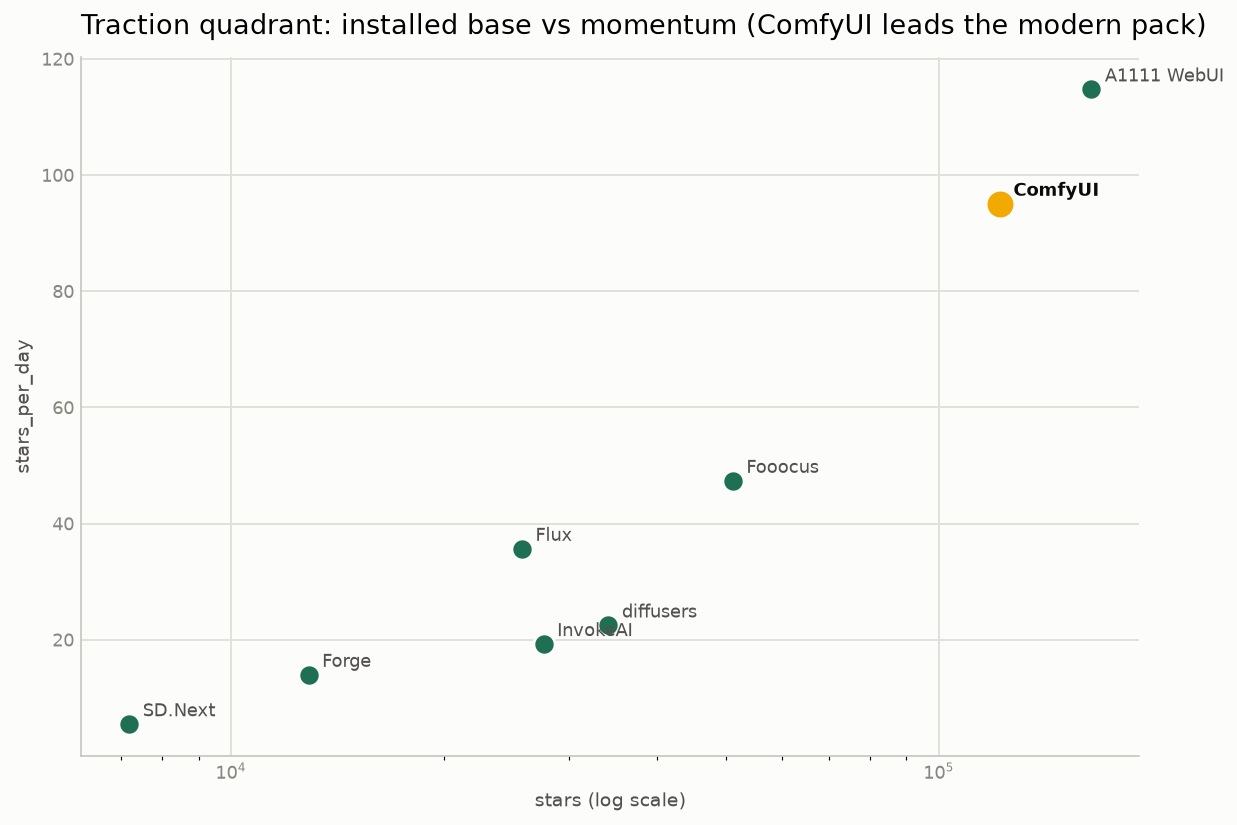
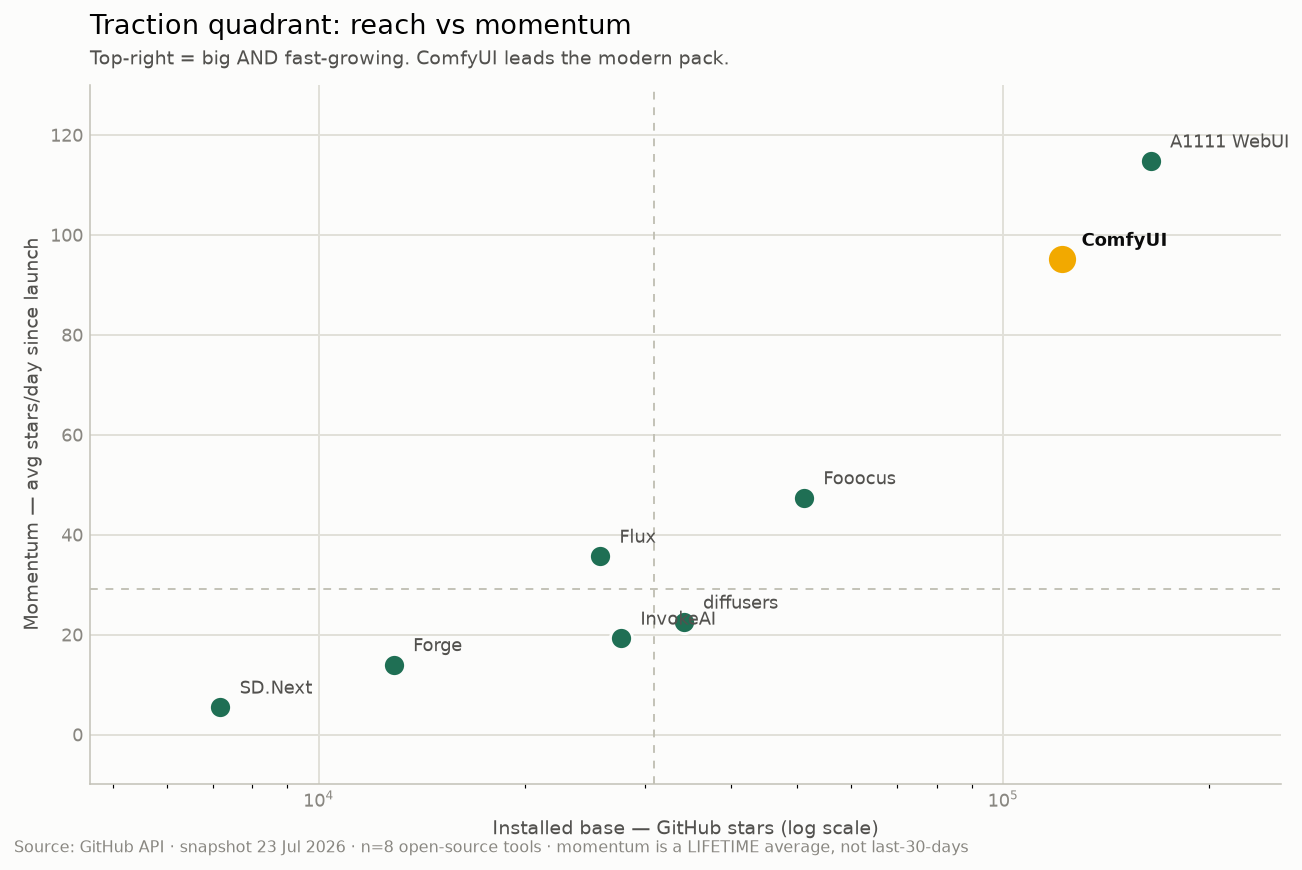
Elevate charts to McCandless's four lenses of information design
Make the charts professional-grade against Interestingness x Function x
Form x Integrity:

- Function: human titles/axis labels, k/M tick formatting, subtitles that
  state the takeaway, optional quadrant guide lines (vline/hline)
- Integrity: every chart takes a source= footer; the traction metric is
  labeled a lifetime average (not last-30-days) so it never overclaims
- Form: unchanged green/gold accent system, now with cleaner number
  formatting and title+subtitle structure

Add docs/DESIGN_RATIONALE.md mapping each choice to the four lenses and the
failure modes it avoids. Regenerate the two demo charts with honest labels,
subtitles, and source attribution.

diff --git a/src/simple_eda/plots.py b/src/simple_eda/plots.py
@@ -4,23 +4,27 @@ Each function takes a DataFrame, applies one deliberate house style, and
 *returns* a matplotlib ``Figure`` (it never calls ``show`` and never modifies
 the DataFrame).
 
-The house style has one idea: **spend your one bright color on the number that
-matters.** Marks are a muted green; the single key value (a median, a leader) is
-gold, so the eye lands there first. Everything else recedes — off-white surface,
-hairline grid, muted labels, no top/right spines. Signed values (correlations)
-use a blue-to-red diverging ramp with a neutral-gray midpoint.
+Design goals follow McCandless's four lenses for good information design:
+  - Form         one recessive base color, one gold accent on the key value;
+                 hairline chrome, direct labels, "k" number formatting.
+  - Function     human-readable titles/axes, subtitles that state the takeaway.
+  - Integrity    every chart carries an optional source/date footer, so the
+                 numbers are attributable.
+  - Interestingness  the caller supplies the question (title) and the "so what"
+                 (subtitle); the accent color answers it at a glance.
 """
 
 import numpy as np
 import matplotlib.pyplot as plt
 import matplotlib.colors as mcolors
+from matplotlib.ticker import FuncFormatter
 import pandas as pd
 
 # --- house palette ------------------------------------------------------------
 SURFACE = "#fcfcfb"    # soft off-white, easier on the eye than stark white
 INK = "#0b0b0b"        # primary text
 SECONDARY = "#52514e"  # axis titles / value labels
-MUTED = "#898781"      # tick labels
+MUTED = "#898781"      # tick labels / source footer
 GRID = "#e1e0d9"       # hairline gridlines
 BASELINE = "#c3c2b7"   # the one axis line we keep
 GREEN = "#1f6f54"      # recessive base mark (school green)
@@ -30,6 +34,16 @@ GOLD = "#f2a900"       # the one accent, reserved for the key value (school gold
 DIVERGING = mcolors.LinearSegmentedColormap.from_list(
     "eda_diverging", ["#256abf", "#f0efec", "#d03b3b"]
 )
+
+
+def _thousands(x, _pos=None):
+    """Axis tick formatter: 25000 -> '25k', 1500000 -> '2M'."""
+    ax = abs(x)
+    if ax >= 1_000_000:
+        return f"{x / 1_000_000:.0f}M"
+    if ax >= 1_000:
+        return f"{x / 1_000:.0f}k"
+    return f"{x:.0f}"
 
 
 def _style(ax) -> None:
@@ -46,7 +60,23 @@ def _style(ax) -> None:
     ax.yaxis.label.set_color(SECONDARY)
 
 
-def missing_plot(df: pd.DataFrame):
+def _titles(ax, title, subtitle):
+    """Left-aligned title with an optional subtitle (the takeaway) beneath it."""
+    ax.set_title(title, loc="left", fontsize=14, pad=26 if subtitle else 12)
+    if subtitle:
+        ax.annotate(subtitle, xy=(0, 1), xytext=(0, 8), xycoords="axes fraction",
+                    textcoords="offset points", ha="left", va="bottom",
+                    color=SECONDARY, fontsize=10)
+
+
+def _footer(fig, source):
+    """Muted source/date line at the bottom-left — attribution = integrity."""
+    if source:
+        fig.text(0.01, 0.005, source, ha="left", va="bottom",
+                 color=MUTED, fontsize=8)
+
+
+def missing_plot(df: pd.DataFrame, source=None):
     """Horizontal bar of missing-value counts per column, highest on top."""
     counts = df.isna().sum().sort_values()
     counts = counts[counts > 0]
@@ -67,11 +97,13 @@ def missing_plot(df: pd.DataFrame):
                 color=SECONDARY, fontsize=9)
     ax.set_title("Missing values per column", loc="left", fontsize=13, pad=12)
     ax.set_xlabel("count")
+    _footer(fig, source)
     fig.tight_layout()
     return fig
 
 
-def histogram(df: pd.DataFrame, column: str, bins: int = 24, highlight="median"):
+def histogram(df: pd.DataFrame, column: str, bins: int = 24, highlight="median",
+              title=None, subtitle=None, xlabel=None, source=None):
     """Distribution of one numeric column, with the median's bin marked in gold.
 
     ``highlight`` may be ``"median"``, ``"mean"``, a number, or ``None``.
@@ -84,11 +116,11 @@ def histogram(df: pd.DataFrame, column: str, bins: int = 24, highlight="median")
                                      edgecolor=SURFACE, linewidth=1.2)
     ax.yaxis.grid(True, color=GRID, linewidth=1)
     ax.set_axisbelow(True)
+    ax.xaxis.set_major_formatter(FuncFormatter(_thousands))
 
     marker = {"median": series.median(), "mean": series.mean()}.get(highlight,
                                                                      highlight)
     if marker is not None:
-        # recolor only the single bar whose bin contains the marker value
         idx = int(np.clip(np.digitize(marker, edges) - 1, 0, len(patches) - 1))
         patches[idx].set_facecolor(GOLD)
         label = (highlight if isinstance(highlight, str) else "value").upper()
@@ -96,15 +128,16 @@ def histogram(df: pd.DataFrame, column: str, bins: int = 24, highlight="median")
                 counts[idx] / 2, f"{label} {marker:,.0f}", rotation=90,
                 ha="center", va="center", color=INK, fontsize=10, weight="bold")
 
-    ax.set_title(f"Distribution of {column}", loc="left", fontsize=14, pad=12)
-    ax.set_xlabel(column)
+    _titles(ax, title or f"Distribution of {column}", subtitle)
+    ax.set_xlabel(xlabel or column)
     ax.set_ylabel("frequency")
+    _footer(fig, source)
     fig.tight_layout()
     return fig
 
 
 def ranked_bar(df: pd.DataFrame, label_col: str, value_col: str, top=None,
-               title=None):
+               title=None, subtitle=None, xlabel=None, source=None):
     """Horizontal ranked bar; the #1 value is accented in gold, rest recessive."""
     data = df[[label_col, value_col]].dropna().sort_values(value_col)
     if top:
@@ -114,61 +147,75 @@ def ranked_bar(df: pd.DataFrame, label_col: str, value_col: str, top=None,
     colors = [GREEN] * len(values)
     colors[-1] = GOLD  # last (largest, top of chart) is the leader
 
-    fig, ax = plt.subplots(figsize=(9, max(2.5, 0.5 * len(values) + 1)))
+    fig, ax = plt.subplots(figsize=(9, max(2.5, 0.5 * len(values) + 1.2)))
     _style(ax)
     ax.barh(labels, values, color=colors, height=0.68)
     ax.xaxis.grid(True, color=GRID, linewidth=1)
     ax.set_axisbelow(True)
+    ax.xaxis.set_major_formatter(FuncFormatter(_thousands))
     pad = max(values) * 0.01
     for y, v in enumerate(values):
         ax.text(v + pad, y, f"{v:,.0f}", va="center", ha="left",
                 color=SECONDARY, fontsize=9)
-    ax.margins(x=0.12)
-    ax.set_title(title or f"{value_col} by {label_col}", loc="left",
-                 fontsize=14, pad=12)
-    ax.set_xlabel(value_col)
+    ax.margins(x=0.13)
+    _titles(ax, title or f"{value_col} by {label_col}", subtitle)
+    ax.set_xlabel(xlabel or value_col)
+    _footer(fig, source)
     fig.tight_layout()
     return fig
 
 
-def scatter(df: pd.DataFrame, x: str, y: str, label_col=None,
-            highlight=None, logx=False, title=None):
+def scatter(df: pd.DataFrame, x: str, y: str, label_col=None, highlight=None,
+            logx=False, title=None, subtitle=None, xlabel=None, ylabel=None,
+            vline=None, hline=None, source=None):
     """Scatter of two numeric columns; ``highlight`` (a label) is drawn in gold.
 
-    Handy as a "traction quadrant": installed base on x, growth on y.
+    Handy as a "traction quadrant": installed base on x, growth on y. Pass
+    ``vline`` / ``hline`` (e.g. the medians) to split the plane into quadrants.
     """
     data = df.dropna(subset=[x, y])
-    fig, ax = plt.subplots(figsize=(9, 6))
+    fig, ax = plt.subplots(figsize=(9.5, 6.2))
     _style(ax)
+
+    # quadrant reference lines (drawn first, so they sit behind the marks)
+    if vline is not None:
+        ax.axvline(vline, color=BASELINE, linewidth=1, linestyle=(0, (4, 4)))
+    if hline is not None:
+        ax.axhline(hline, color=BASELINE, linewidth=1, linestyle=(0, (4, 4)))
 
     hi_mask = (data[label_col] == highlight) if (label_col and highlight) \
         else pd.Series(False, index=data.index)
-    ax.scatter(data.loc[~hi_mask, x], data.loc[~hi_mask, y], s=120,
+    ax.scatter(data.loc[~hi_mask, x], data.loc[~hi_mask, y], s=130,
                color=GREEN, edgecolor=SURFACE, linewidth=1.5, zorder=3)
     if hi_mask.any():
-        ax.scatter(data.loc[hi_mask, x], data.loc[hi_mask, y], s=220,
+        ax.scatter(data.loc[hi_mask, x], data.loc[hi_mask, y], s=240,
                    color=GOLD, edgecolor=SURFACE, linewidth=1.5, zorder=4)
 
     if label_col:
         for _, r in data.iterrows():
+            is_hi = r[label_col] == highlight
             ax.annotate(str(r[label_col]), (r[x], r[y]),
-                        xytext=(7, 4), textcoords="offset points",
-                        color=INK if r[label_col] == highlight else SECONDARY,
-                        fontsize=9,
-                        weight="bold" if r[label_col] == highlight else "normal")
+                        xytext=(10, 7), textcoords="offset points",
+                        color=INK if is_hi else SECONDARY, fontsize=9,
+                        weight="bold" if is_hi else "normal", zorder=5)
 
     if logx:
         ax.set_xscale("log")
     ax.grid(True, color=GRID, linewidth=1)
     ax.set_axisbelow(True)
-    ax.set_title(title or f"{y} vs {x}", loc="left", fontsize=14, pad=12)
-    ax.set_xlabel(x + (" (log scale)" if logx else ""))
-    ax.set_ylabel(y)
+    ax.yaxis.set_major_formatter(FuncFormatter(_thousands))
+    if not logx:
+        ax.xaxis.set_major_formatter(FuncFormatter(_thousands))
+    ax.margins(0.14)
+    _titles(ax, title or f"{y} vs {x}", subtitle)
+    ax.set_xlabel((xlabel or x) + (" (log scale)" if logx else ""))
+    ax.set_ylabel(ylabel or y)
+    _footer(fig, source)
     fig.tight_layout()
     return fig
 
 
-def correlation_heatmap(df: pd.DataFrame):
+def correlation_heatmap(df: pd.DataFrame, title=None, source=None):
     """Heatmap of numeric correlations on a diverging blue-red ramp.
 
     Correlation is signed (-1 to +1), so the color has polarity: blue pulls one
@@ -198,6 +245,8 @@ def correlation_heatmap(df: pd.DataFrame):
     cbar = fig.colorbar(im, ax=ax, fraction=0.046, pad=0.04)
     cbar.outline.set_visible(False)
     cbar.ax.tick_params(colors=MUTED, length=0, labelsize=8)
-    ax.set_title("Correlation", loc="left", fontsize=14, pad=12, color=INK)
+    ax.set_title(title or "Correlation", loc="left", fontsize=14, pad=12,
+                 color=INK)
+    _footer(fig, source)
     fig.tight_layout()
     return fig

diff --git a/examples/ai_image_tool_race.py b/examples/ai_image_tool_race.py
@@ -14,6 +14,7 @@ import pandas as pd
 import simple_eda as eda
 
 df = pd.read_csv("data/ai_image_tools_2026-07.csv")
+SOURCE = "Source: GitHub API · snapshot 23 Jul 2026 · n=8 open-source tools"
 
 # --- a quick look, the boring EDA way -----------------------------------------
 print(eda.summarize(df))
@@ -22,15 +23,23 @@ print("numeric:", eda.numeric_columns(df))
 # --- chart 1: who has the mindshare -------------------------------------------
 eda.ranked_bar(
     df, "tool", "stars",
-    title="Who owns developer mindshare in AI image tools? (GitHub stars, Jul 2026)",
+    title="Who owns developer mindshare in AI image tools?",
+    subtitle="GitHub stars — A1111 still leads, but ComfyUI is closing fast",
+    xlabel="GitHub stars",
+    source=SOURCE,
 ).savefig("examples/01_stars.png", dpi=140, bbox_inches="tight")
 
 # --- chart 2: the traction quadrant -------------------------------------------
-# x = installed base (total stars, log), y = momentum (stars/day since launch)
+# x = installed base (total stars, log), y = momentum (avg stars/day since launch)
 eda.scatter(
     df, "stars", "stars_per_day", label_col="tool", highlight="ComfyUI",
     logx=True,
-    title="Traction quadrant: installed base vs momentum (ComfyUI leads the modern pack)",
+    title="Traction quadrant: reach vs momentum",
+    subtitle="Top-right = big AND fast-growing. ComfyUI leads the modern pack.",
+    xlabel="Installed base — GitHub stars",
+    ylabel="Momentum — avg stars/day since launch",
+    vline=df["stars"].median(), hline=df["stars_per_day"].median(),
+    source=SOURCE + " · momentum is a LIFETIME average, not last-30-days",
 ).savefig("examples/02_traction.png", dpi=140, bbox_inches="tight")
 
 print("saved examples/01_stars.png and examples/02_traction.png")

diff --git a/docs/DESIGN_RATIONALE.md b/docs/DESIGN_RATIONALE.md
@@ -1,0 +1,48 @@
+# Design rationale — the four lenses
+
+These charts are built against David McCandless's model of good information
+design (*Information is Beautiful*, v1.0, Nov 2009): a design succeeds only where
+**Interestingness × Function × Form × Integrity** overlap. Miss one and you get
+a named failure — eye-candy, rubbish, boring, useless. Here's how each lens is
+answered, and what it protects against.
+
+| Lens | What it demands | How the charts answer it |
+| --- | --- | --- |
+| **Interestingness** | relevant, meaningful, new | A live question — *which AI-image tools are winning developer adoption?* — with the "so what" stated in every **subtitle**, not left for the viewer to infer. |
+| **Function** | easiness, usefulness, usability, fit | Human titles/axes ("Installed base — GitHub stars", not `stars`); `k`/`M` tick formatting; direct value labels (no legend lookup); a log x-axis so 7k–164k all read; quadrant guide lines that make "big AND fast-growing" a *place* on the chart. |
+| **Form** | beauty, structure, appearance | One recessive base color (green) + one accent (gold) on the single key value; off-white surface; hairline grid; top/right spines removed. Structure carries meaning — bars sorted so rank *is* the shape. |
+| **Integrity** | truth, consistency, honesty, accuracy | Every chart carries a **source + date footer**. The momentum metric is explicitly labeled a *lifetime average, not last-30-days*, because I can't get star history — I refuse to imply precision I don't have. Missing signals (PyPI/HF) are dropped, never silently zero-filled. |
+
+## The failure modes each choice avoids
+
+McCandless names what you get when a lens is missing. The design is a set of
+defenses against those:
+
+- **Form without Integrity → "eye-candy."** The gold accent is powerful, so it
+  is *reserved* for the one true key value (leader / median). It never
+  decorates.
+- **Function without Form → "useless / boring."** The data is real and usable,
+  but the recessive chrome and single accent keep it from being a grey wall of
+  bars.
+- **Interestingness without Integrity → "rubbish."** A hot topic tempts
+  overclaiming. The honest "lifetime average" caveat keeps the momentum story
+  truthful.
+- **Everything except Interestingness → "experiment."** The subtitle forces a
+  point of view, so the chart argues something instead of just displaying.
+
+## Colorblind integrity (a Form + Integrity overlap)
+
+Green and gold were chosen so the accent differs in **both hue and lightness** —
+the highlight still reads under deuteranopia/protanopia because lightness
+carries it when hue washes out. Accessibility is part of honesty: a chart that
+only works for full-color vision isn't accurate for everyone.
+
+## How this maps to the reusable library
+
+The lenses are encoded as function parameters, so any future chart inherits
+them — this is the "professional, adaptive in real work" part:
+
+- `title=` / `subtitle=` → Interestingness (question + takeaway)
+- `xlabel=` / `ylabel=`, `k`/`M` formatter, `vline=` / `hline=` → Function
+- house palette, `_style()`, one gold accent → Form
+- `source=` footer, honest metric labels → Integrity

diff --git a/README.md b/README.md
@@ -53,6 +53,10 @@ Each takes a DataFrame and **returns a matplotlib `Figure`** (never calls
   cross-reference.
 - **Diverging = signed.** Correlations use blue↔red with a neutral-gray zero,
   locked to [-1, 1], because correlation has a sign and gray must mean "none."
+- **Attribution = integrity.** Every chart takes a `source=` footer and honest
+  metric labels. See [`docs/DESIGN_RATIONALE.md`](docs/DESIGN_RATIONALE.md) for
+  how the whole design maps to McCandless's four lenses of good information
+  design (Interestingness × Function × Form × Integrity).
 
 ## The AI Image-Gen Tool Race
 
